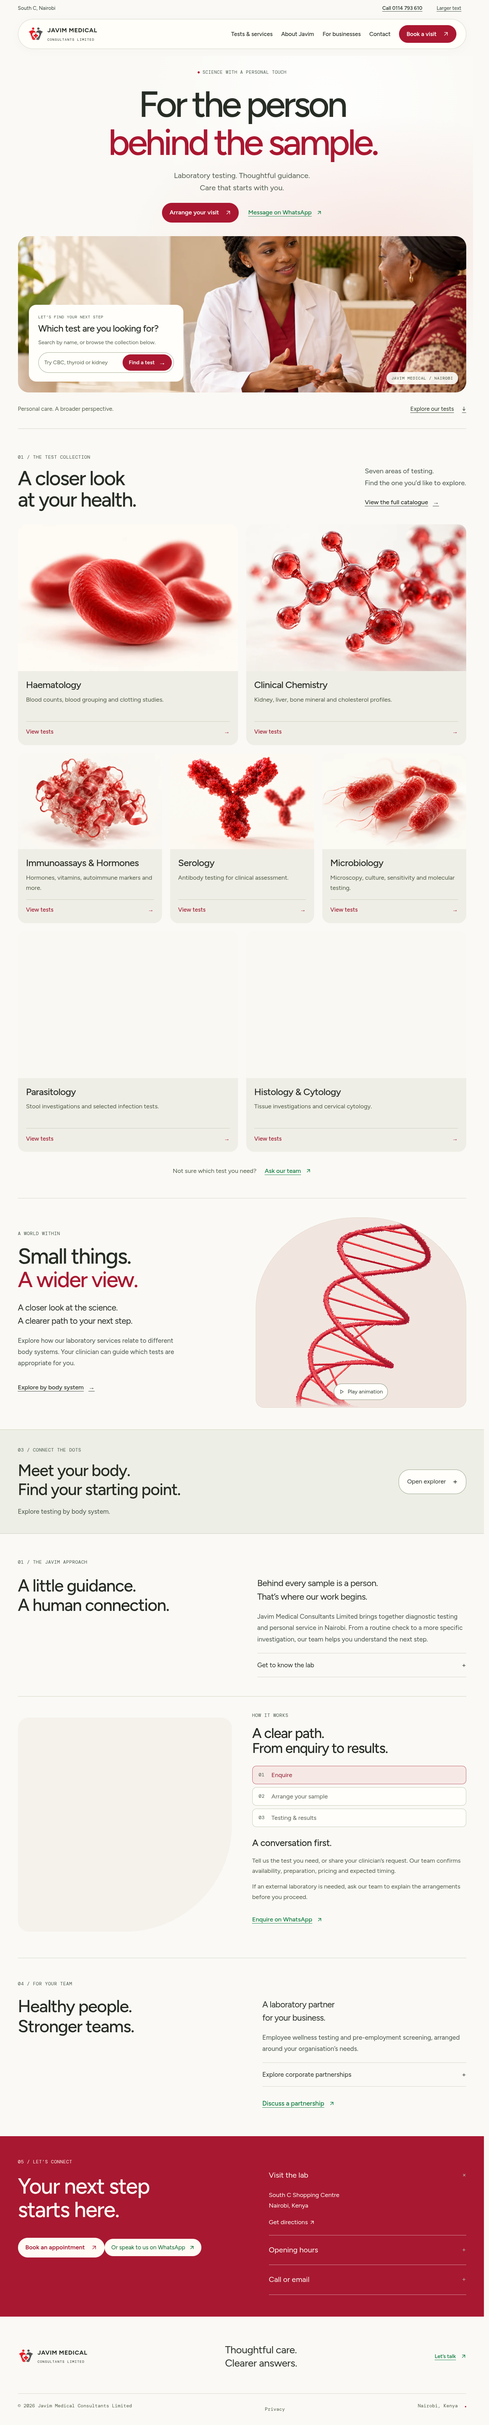
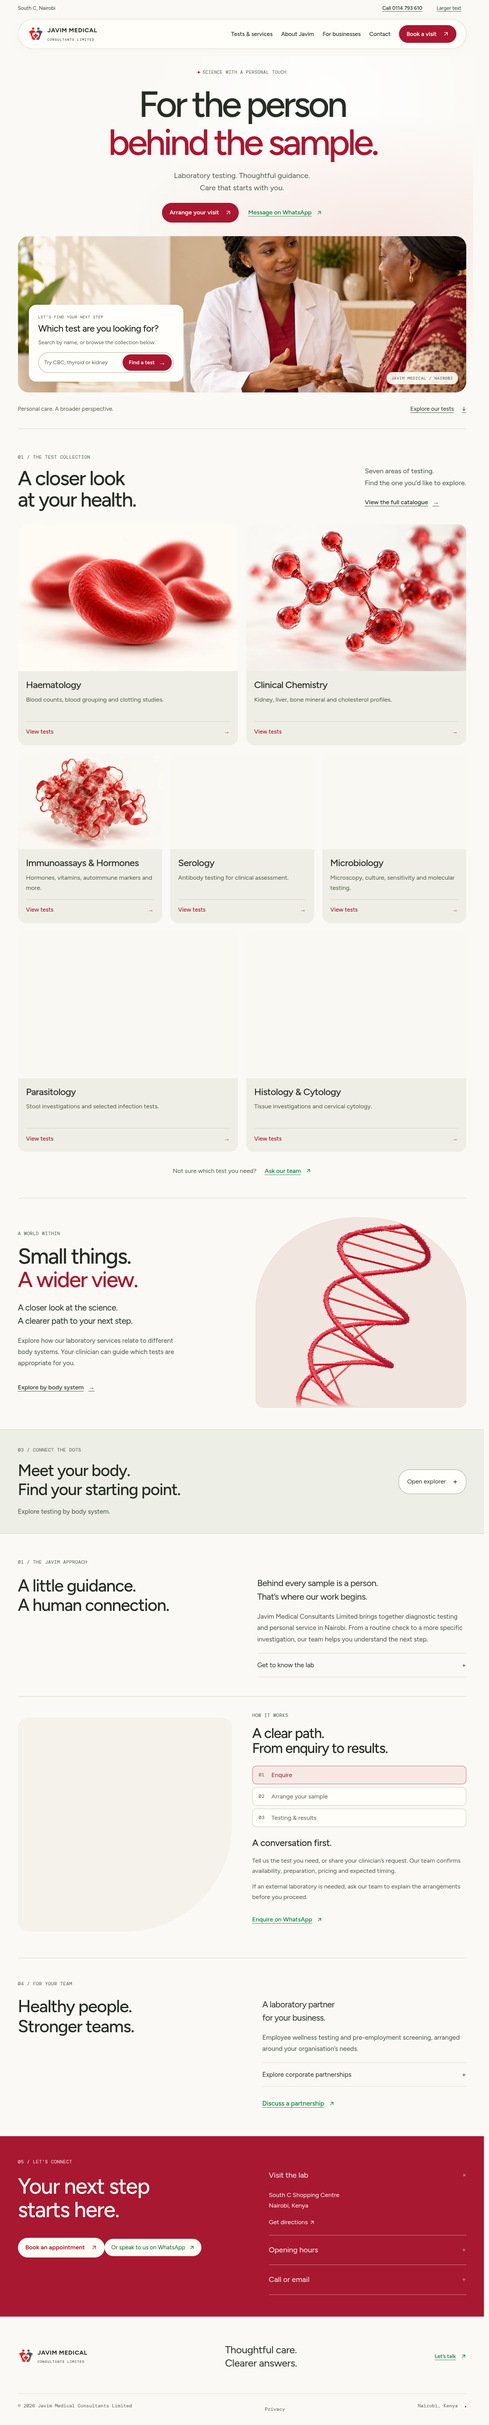
Autoplay scientific scenes in view without visible play buttons

Changed region(s): [[0.375, 0.3125, 0.625, 0.3749], [0.6875, 0.3125, 0.9375, 0.3437], [0.6875, 0.5624, 0.7812, 0.5937]]

diff --git a/src/main.js b/src/main.js
@@ -26,7 +26,7 @@ const header = `<a class="skip-link" href="#main">Skip to content</a>${readabili
 const footer = `<footer class="footer wrap"><div class="footer-top">${brand}<p>Thoughtful care.<br>Clearer answers.</p>${waLink('Let’s talk')}</div><div class="footer-bottom"><span>© ${new Date().getFullYear()} Javim Medical Consultants Limited</span><a href="/privacy">Privacy</a><span>Nairobi, Kenya <span class="red-dot"></span></span></div></footer>`;
 const booking = `<dialog id="booking-dialog" aria-labelledby="booking-title" class="booking-dialog"><div class="dialog-head"><span class="eyebrow">YOUR NEXT STEP</span><button class="close-dialog" aria-label="Close booking">×</button></div><h2 id="booking-title">Make time<br>for your health.</h2><p class="muted">Choose what you need. We’ll take it from here.</p><div class="booking-options">${bookingTypes.map((b,i)=>{const url=safeCalUrl(b.calUrl);return `<a href="${url || whatsapp(b.message)}" target="_blank" rel="noopener noreferrer"><span class="index">0${i+1}</span><div><h3>${b.name}</h3><p>${b.description}</p><span class="alias">${url?'CHOOSE A TIME ON CAL.COM':'<span class="whatsapp-text">ARRANGE VIA WHATSAPP</span>'}</span></div>${arrow}</a>`}).join('')}</div><p class="booking-note">Pricing, preparation and collection arrangements are confirmed by our team. Please avoid sending sensitive medical information in your initial enquiry.</p></dialog>`;
 const hero = `<section class="hero gallery-hero wrap" aria-labelledby="hero-title"><div class="hero-copy"><div class="eyebrow"><span class="red-dot"></span> SCIENCE WITH A PERSONAL TOUCH</div><h1 id="hero-title">For the person<br><em>behind the sample.</em></h1><p>Laboratory testing. Thoughtful guidance.<br>Care that starts with you.</p><div class="gallery-hero-actions"><button class="button" data-book>Arrange your visit ${arrow}</button>${waLink('Message on WhatsApp')}</div></div><div class="hero-photo"><img src="/assets/design-03/consultation.webp" srcset="/assets/design-03/consultation-small.webp 800w, /assets/design-03/consultation.webp 1600w" sizes="(max-width:760px) 100vw, 90vw" width="1536" height="1024" alt="" fetchpriority="high"><form class="home-test-search" action="/services" method="get"><span class="eyebrow">LET’S FIND YOUR NEXT STEP</span><label for="home-test-query">Which test are you looking for?</label><p>Search by name, or browse the collection below.</p><div><input id="home-test-query" name="q" type="search" placeholder="Try CBC, thyroid or kidney" autocomplete="off"><button class="button" type="submit">Find a test <span aria-hidden="true">→</span></button></div></form><span class="photo-location">JAVIM MEDICAL / NAIROBI</span></div><div class="gallery-breadcrumb"><span>Personal care. A broader perspective.</span><a href="#services">Explore our tests <span aria-hidden="true">↓</span></a></div></section>`;
-const scienceStudio = `<section class="science-studio wrap section" aria-labelledby="science-heading"><div class="science-studio-copy"><span class="eyebrow">A WORLD WITHIN</span><h2 id="science-heading">Small things.<br><em>A wider view.</em></h2><p class="large-copy">A closer look at the science.<br>A clearer path to your next step.</p><p class="muted">Explore how our laboratory services relate to different body systems. Your clinician can guide which tests are appropriate for you.</p><a class="text-link" href="#explore">Explore by body system <span aria-hidden="true">→</span></a></div><div class="hero-visual"><div id="medical-scene" aria-busy="true" role="group" aria-label="DNA helix transforming into interactive flowing particles"><div class="scene-fallback" hidden><img src="/assets/dna-poster.webp" alt="" width="640" height="720"></div></div><div class="scene-bottom"><button id="motion-toggle" class="motion-toggle" aria-label="Pause animation" aria-pressed="false"><span aria-hidden="true">Ⅱ</span></button></div></div></section>`;
+const scienceStudio = `<section class="science-studio wrap section" aria-labelledby="science-heading"><div class="science-studio-copy"><span class="eyebrow">A WORLD WITHIN</span><h2 id="science-heading">Small things.<br><em>A wider view.</em></h2><p class="large-copy">A closer look at the science.<br>A clearer path to your next step.</p><p class="muted">Explore how our laboratory services relate to different body systems. Your clinician can guide which tests are appropriate for you.</p><a class="text-link" href="#explore">Explore by body system <span aria-hidden="true">→</span></a></div><div class="hero-visual"><div id="medical-scene" aria-busy="true" role="group" aria-label="DNA helix transforming into interactive flowing particles"><div class="scene-fallback" hidden><img src="/assets/dna-poster.webp" alt="" width="640" height="720"></div></div></div></section>`;
 const about = `<section id="about" class="about-section wrap section"><div class="eyebrow">01 / THE JAVIM APPROACH</div><div class="about-grid"><h2>A little guidance.<br>A human connection.</h2><div><p class="large-copy">Behind every sample is a person.<br>That’s where our work begins.</p><p class="muted">Javim Medical Consultants Limited brings together diagnostic testing and personal service in Nairobi. From a routine check to a more specific investigation, our team helps you understand the next step.</p><details class="quiet-details"><summary>Get to know the lab <span aria-hidden="true">+</span></summary><div><p>Our services span haematology, clinical chemistry, immunoassays and hormones, serology, microbiology, parasitology, and histology and cytology.</p><p>Whether you live locally or are visiting Kenya, speak directly with our team about test availability, sample requirements, pricing and turnaround times.</p></div></details></div></div>${renderProcess()}</section>`;
 const serviceSection = `<section id="services" class="services-section section wrap" aria-labelledby="collection-heading"><div class="collection-heading"><div><span class="eyebrow">01 / THE TEST COLLECTION</span><h2 id="collection-heading">A closer look<br>at your health.</h2></div><div><p class="muted">Seven areas of testing.<br>Find the one you’d like to explore.</p><a class="text-link" href="/services">View the full catalogue <span aria-hidden="true">→</span></a></div></div><div class="service-card-grid">${renderServiceCards()}</div><div class="collection-tail"><span>Not sure which test you need?</span>${waLink('Ask our team')}</div></section>`;
 const anatomySVG = `<svg viewBox="0 0 320 580" role="group" aria-label="Illustrated human body with highlighted organs"><defs><linearGradient id="body-fill" x1="0" y1="0" x2="1" y2="1"><stop stop-color="#f4f4ef"/><stop offset=".5" stop-color="#d7d8d2"/><stop offset="1" stop-color="#f6f6f0"/></linearGradient><radialGradient id="organ"><stop stop-color="#f36860"/><stop offset="1" stop-color="#c42028"/></radialGradient></defs><g fill="url(#body-fill)" stroke="#babdb5" stroke-width="1"><path d="M142 79c-8-8-15-18-14-37 1-20 12-30 32-30s31 10 32 30c1 19-6 29-14 37l-1 18 30 10c15 5 22 18 26 39l16 95 12 60-9 11-12-5-14-64-17-59-5 105 4 56-16 105-8 64-10 45 4 22h-30l-2-20 8-41 4-65 5-94-8-41h-18l-8 41 5 94 4 65 8 41-2 20h-30l4-22-10-45-8-64-16-105 4-56-5-105-17 59-14 64-12 5-9-11 12-60 16-95c4-21 11-34 26-39l30-10Z"/></g><g fill="none" stroke="#adb1a8" stroke-width="1.2" opacity=".45"><path d="M160 101v198M132 121c-20 21-27 56-16 78M188 121c20 21 27 56 16 78M124 153q36 18 72 0M120 165q40 20 80 0M119 179q41 19 82 0M122 193q38 17 76 0M125 208q35 14 70 0M135 298l-14 51M185 298l14 51M119 358l11 102M201 358l-11 102"/></g><g class="anatomy-organ" data-organ="blood" fill="url(#organ)"><path d="M160 145c-8-10-15-7-19 0-9 13-4 33 12 41 13 11 23-1 23-17 1-13-3-22-16-24Z"/><g fill="none" stroke="#d32b31" stroke-width="2.5"><path d="M161 184v104m0-79-29 17-9 77m38-87 29 13 9 74M158 149v-30m0 24-38-16-14 61m56-45 38-16 14 61M161 283l-28 59-1 84m29-143 28 59 1 84"/></g></g><g class="anatomy-organ" data-organ="thyroid" fill="url(#organ)"><path d="M156 111c-17-14-16 14-2 10h12c14 4 15-24-2-10Z"/></g><g class="anatomy-organ" data-organ="liver" fill="url(#organ)"><path d="M126 207c8-14 39-12 59-1-9 6-16 12-23 14-17 5-30 4-36-13Z"/></g><g class="anatomy-organ" data-organ="kidneys" fill="url(#organ)"><path d="M136 231c-15-7-21 21-11 29 7 6 16-3 12-9-9-2 1-14-1-20ZM184 231c15-7 21 21 11 29-7 6-16-3-12-9 9-2-1-14 1-20Z"/></g><g class="anatomy-organ" data-organ="metabolic" fill="none" stroke="#d52a32" stroke-width="4"><path d="M141 273q-15-9-13 5t27 6q24-17 29-3t-22 10q-34-1-20 15t38-3"/></g></svg>`;
@@ -34,7 +34,7 @@ const torsoFallback = anatomySVG.replace('viewBox="0 0 320 580"', 'viewBox="65 8
 const explorer = `<section id="explore" class="explorer-section section"><div class="wrap"><details class="explorer-disclosure"><summary><div><span class="eyebrow">03 / CONNECT THE DOTS</span><h2>Meet your body.<br>Find your starting point.</h2><p class="muted">Explore testing by body system.</p></div><span class="explore-button">Open explorer <span aria-hidden="true">+</span></span></summary><div class="explorer-grid"><div class="anatomy-art"><div id="anatomy-scene" role="group" aria-label="Interactive three-dimensional torso and organs"><div class="anatomy-fallback">${torsoFallback}</div></div><div class="anatomy-hotspots">${systems.map((system,i)=>`<button class="anatomy-hotspot" data-organ="${system.id}" style="left:${[53,50,39,65,52][i]}%;top:${[39,12,58,69,66][i]}%" aria-label="Explore ${system.name} tests" title="${system.name}"><span aria-hidden="true"></span></button>`).join('')}</div><div class="anatomy-tools"><button id="anatomy-reset">Full torso</button><a href="/assets/anatomy/NOTICE.md" target="_blank" rel="noopener noreferrer">Model credits ↗</a></div></div><div class="explorer-content"><div class="system-tabs" role="group" aria-label="Choose a body system">${systems.map((s,i)=>`<button data-system="${s.id}" aria-pressed="${i===0}" class="${i===0?'active':''}">${s.name}</button>`).join('')}</div><div id="system-info" aria-live="polite"></div><p class="explorer-note">A guide to our services, rather than a test recommendation. Your clinician can advise which investigations are appropriate.</p></div></div></details></div></section>`;
 const corporate = `<section id="corporate" class="corporate-section section wrap"><div class="eyebrow">04 / FOR YOUR TEAM</div><div class="corporate-grid"><h2>Healthy people.<br>Stronger teams.</h2><div><p class="large-copy">A laboratory partner<br>for your business.</p><p class="muted">Employee wellness testing and pre-employment screening, arranged around your organisation’s needs.</p><details class="quiet-details"><summary>Explore corporate partnerships <span aria-hidden="true">+</span></summary><div><p>Speak with our team about group size, required tests and scheduling. We’ll discuss a suitable arrangement, including pricing, preparation and ongoing testing needs.</p></div></details>${waLink('Discuss a partnership','Hello Javim Medical, I would like to discuss corporate testing for my organisation.','text-link corporate-link')}</div></div></section>`;
 const contact = `<section id="contact" class="contact-section"><div class="wrap contact-grid"><div><span class="eyebrow">05 / LET’S CONNECT</span><h2>Your next step<br>starts here.</h2><button class="button button-light" data-book>Book an appointment ${arrow}</button>${waLink('Or speak to us on WhatsApp',undefined,'contact-wa')}</div><div class="contact-info"><details open><summary>Visit the lab <span aria-hidden="true">+</span></summary><div><p>South C Shopping Centre<br>Nairobi, Kenya</p><a href="https://www.google.com/maps/search/?api=1&query=South+C+Shopping+Centre+Nairobi" target="_blank" rel="noopener noreferrer">Get directions ↗</a></div></details><details><summary>Opening hours <span aria-hidden="true">+</span></summary><div><p>Monday – Friday <span>9:00 AM – 6:00 PM</span><br>Saturday <span>9:00 AM – 4:00 PM</span></p><p class="contact-note">East Africa Time (UTC+3).<br>Closed Sundays & public holidays.</p></div></details><details><summary>Call or email <span aria-hidden="true">+</span></summary><div><a href="tel:+254114793610">0114 793 610</a><a href="mailto:javimops@outlook.com">javimops@outlook.com</a></div></details></div></div></section>`;
-const servicesPage = `<section class="catalogue-page wrap"><div class="catalogue-hero"><div class="catalogue-intro"><div class="eyebrow"><span class="red-dot"></span> OUR SERVICES</div><h1>A little clarity.<br><em>Start with a test.</em></h1><p class="large-copy">Explore our laboratory tests.<br>Ask our team about preparation, pricing and timing.</p></div><div class="blood-visual"><div id="blood-scene" role="group" aria-label="Illustrative red blood cells floating in three dimensions"><img class="blood-fallback" src="/assets/services/haematology.webp" alt="" width="840" height="560"></div><button id="blood-motion-toggle" class="motion-toggle" aria-label="Pause blood cell animation" aria-pressed="false"></button></div></div><div class="search-bar"><label for="test-search">Search tests</label><div><span aria-hidden="true">⌕</span><input id="test-search" type="search" placeholder="Try HbA1c, thyroid or kidney…" autocomplete="off"><button id="clear-search" aria-label="Clear search" hidden>×</button></div></div><div class="filter-list" role="group" aria-label="Filter by department"><button data-filter="all" class="active" aria-pressed="true">All tests</button>${departments.map(d=>`<button data-filter="${d.id}" aria-pressed="false">${d.name}</button>`).join('')}</div><p id="results-count" class="eyebrow" role="status" aria-live="polite">${allTests.length} TESTS / 7 SERVICE GROUPS</p><div id="catalogue-results">${departmentRows(true)}</div><div class="catalogue-help"><h2>Not sure where to start?</h2><p class="muted">Share the test name or your clinician’s request. Our team can confirm availability, pricing and preparation.</p>${waLink('Ask the team')}</div></section>`;
+const servicesPage = `<section class="catalogue-page wrap"><div class="catalogue-hero"><div class="catalogue-intro"><div class="eyebrow"><span class="red-dot"></span> OUR SERVICES</div><h1>A little clarity.<br><em>Start with a test.</em></h1><p class="large-copy">Explore our laboratory tests.<br>Ask our team about preparation, pricing and timing.</p></div><div class="blood-visual"><div id="blood-scene" role="group" aria-label="Illustrative red blood cells floating in three dimensions"><img class="blood-fallback" src="/assets/services/haematology.webp" alt="" width="840" height="560"></div></div></div><div class="search-bar"><label for="test-search">Search tests</label><div><span aria-hidden="true">⌕</span><input id="test-search" type="search" placeholder="Try HbA1c, thyroid or kidney…" autocomplete="off"><button id="clear-search" aria-label="Clear search" hidden>×</button></div></div><div class="filter-list" role="group" aria-label="Filter by department"><button data-filter="all" class="active" aria-pressed="true">All tests</button>${departments.map(d=>`<button data-filter="${d.id}" aria-pressed="false">${d.name}</button>`).join('')}</div><p id="results-count" class="eyebrow" role="status" aria-live="polite">${allTests.length} TESTS / 7 SERVICE GROUPS</p><div id="catalogue-results">${departmentRows(true)}</div><div class="catalogue-help"><h2>Not sure where to start?</h2><p class="muted">Share the test name or your clinician’s request. Our team can confirm availability, pricing and preparation.</p>${waLink('Ask the team')}</div></section>`;
 const privacy = `<article class="privacy-page wrap"><span class="eyebrow">YOUR PRIVACY</span><h1>Care includes<br><em>your privacy.</em></h1><p>This website provides information about Javim Medical Consultants Limited and links to our team and appointment services.</p><h2>Website use</h2><p>We do not provide a medical-record upload form or use analytics or advertising trackers on this website. Our hosting provider may process technical request information such as IP addresses for delivery and security.</p><h2>Contact and booking</h2><p><span class="whatsapp-text">WhatsApp</span>, Cal.com (when enabled) and Google Maps are external services with their own privacy policies. They receive information when you follow a link to use them. Please avoid sharing sensitive health details in an initial booking enquiry.</p><h2>Medical information</h2><p>Ask our team how patient information, specimens and laboratory results are handled before submitting medical information. This website notice does not replace the laboratory’s patient-data policy.</p><h2>Questions</h2><p>Contact <a href="mailto:javimops@outlook.com">javimops@outlook.com</a> for privacy enquiries.</p></article>`;
 document.querySelector('#app').innerHTML = (header + `<main id="main">${isServices?servicesPage:isPrivacy?privacy:hero+serviceSection+scienceStudio+explorer+about+corporate+contact}</main>` + footer + booking + (!isServices&&!isPrivacy?renderServiceDrawer():'')).replaceAll('↗', arrowIcon);
 initReadability();
@@ -54,7 +54,7 @@ if (!isServices && !isPrivacy) {
     document.querySelector('#medical-scene').setAttribute('aria-busy','false');
     document.querySelector('#medical-scene').dataset.phase='fallback';
     document.querySelector('#medical-scene canvas')?.setAttribute('hidden', '');
-    document.querySelector('#motion-toggle').hidden = true;
+    document.querySelector('#medical-scene').dataset.phase='fallback';
   });
   let anatomyViewer = null, anatomyLoading = null, selectedSystem = 'blood';
   const setSystem = id => {
@@ -81,7 +81,7 @@ if (!isServices && !isPrivacy) {
 }
 if (isServices) {
   initGuidance();
-  import('./blood-cells.js').then(({mountBloodCells})=>mountBloodCells(document.querySelector('#blood-scene'))).catch(()=>{document.querySelector('#blood-motion-toggle').hidden=true;});
+  import('./blood-cells.js').then(({mountBloodCells})=>mountBloodCells(document.querySelector('#blood-scene'))).catch(()=>{document.querySelector('#blood-scene').dataset.status='fallback';});
   let filter='all';const search=document.querySelector('#test-search');
   const render=()=>{
     const q=search.value.trim();let count=0,opened=false;

diff --git a/src/blood-cells.js b/src/blood-cells.js
@@ -59,7 +59,7 @@ function surfaceGrains(count, seed, pointScale){
 export function mountBloodCells(container){
  const toggle=document.querySelector('#blood-motion-toggle'),fallback=container.querySelector('.blood-fallback');
  let renderer;
- try{renderer=new THREE.WebGLRenderer({alpha:true,antialias:true,powerPreference:'low-power'});}catch{container.dataset.status='fallback';toggle.hidden=true;return;}
+ try{renderer=new THREE.WebGLRenderer({alpha:true,antialias:true,powerPreference:'low-power'});}catch{container.dataset.status='fallback';if(toggle)toggle.hidden=true;return;}
  const compact=matchMedia('(max-width:760px)').matches;
  renderer.setPixelRatio(Math.min(devicePixelRatio,compact?1.25:1.5));renderer.setClearColor(0xffffff,0);renderer.toneMapping=THREE.ACESFilmicToneMapping;renderer.toneMappingExposure=.85;
  renderer.domElement.setAttribute('aria-hidden','true');container.append(renderer.domElement);
@@ -77,9 +77,9 @@ export function mountBloodCells(container){
   const grains=surfaceGrains(grainCount,193+index*719,1);mesh.add(grains);totalGrains+=grainCount;
   return {mesh,grains,x,y,z,rx,ry,index};
  });
- const media=matchMedia('(prefers-reduced-motion:reduce)');let paused=true,visible=true,elapsed=0,previous=0,frame=0,dirty=true;
+ const media=matchMedia('(prefers-reduced-motion:reduce)');let paused=media.matches,visible=true,elapsed=0,previous=0,frame=0,dirty=true;
  const pointer=new THREE.Vector2(),target=new THREE.Vector2();
- function updateButton(){toggle.setAttribute('aria-label',paused?'Play blood cell animation':'Pause blood cell animation');toggle.setAttribute('aria-pressed',String(paused));toggle.innerHTML=paused?'<svg viewBox="0 0 16 16" aria-hidden="true"><path d="m6 3 7 5-7 5Z" fill="currentColor"/></svg><span>Play animation</span>':'<svg viewBox="0 0 16 16" aria-hidden="true"><path d="M5 3v10M11 3v10" stroke="currentColor" stroke-width="2"/></svg><span>Pause animation</span>';container.dataset.paused=String(paused);}
+ function updateButton(){container.dataset.paused=String(paused);container.tabIndex=0;container.setAttribute('aria-keyshortcuts','Space');container.setAttribute('aria-label',`Floating red blood cells. ${paused?'Paused':'Playing'}. Press Space to ${paused?'play':'pause'} animation.`);}
  function resize(){const {width,height}=container.getBoundingClientRect();if(!width||!height)return;renderer.setSize(width,height);for(const c of cells)c.grains.material.uniforms.pointScale.value=height*renderer.getPixelRatio()/(2*Math.tan(THREE.MathUtils.degToRad(34/2)));camera.aspect=width/height;camera.updateProjectionMatrix();dirty=true;start();}
  function draw(now){
   frame=0;const dt=previous?Math.min((now-previous)/1000,.05):0;previous=now;
@@ -92,12 +92,12 @@ export function mountBloodCells(container){
   if(!paused&&visible&&!document.hidden)frame=requestAnimationFrame(draw);
  }
  function start(){if(!frame&&visible&&!document.hidden){previous=0;frame=requestAnimationFrame(draw);}}
- toggle.addEventListener('click',()=>{paused=!paused;updateButton();dirty=true;start();});
- media.addEventListener('change',()=>{if(media.matches)paused=true;updateButton();dirty=true;start();});
+ container.addEventListener('keydown',event=>{if(event.code==='Space'){event.preventDefault();paused=!paused;updateButton();dirty=true;start();}});
+ media.addEventListener('change',()=>{paused=media.matches;updateButton();dirty=true;start();});
  container.addEventListener('pointermove',e=>{if(e.pointerType==='touch'||paused)return;const r=container.getBoundingClientRect();target.set((e.clientX-r.left)/r.width*2-1,(e.clientY-r.top)/r.height*2-1);});container.addEventListener('pointerleave',()=>target.set(0,0));
  const observer=new IntersectionObserver(([entry])=>{visible=entry.isIntersecting;if(visible)start();else{cancelAnimationFrame(frame);frame=0;previous=0;}},{threshold:0});observer.observe(container);
  document.addEventListener('visibilitychange',()=>{if(document.hidden){cancelAnimationFrame(frame);frame=0;}else start();});
  const resizeObserver=new ResizeObserver(resize);resizeObserver.observe(container);
- renderer.domElement.addEventListener('webglcontextlost',event=>{event.preventDefault();cancelAnimationFrame(frame);frame=0;visible=false;renderer.domElement.hidden=true;fallback.hidden=false;toggle.hidden=true;container.dataset.status='fallback';});
+ renderer.domElement.addEventListener('webglcontextlost',event=>{event.preventDefault();cancelAnimationFrame(frame);frame=0;visible=false;renderer.domElement.hidden=true;fallback.hidden=false;if(toggle)toggle.hidden=true;container.dataset.status='fallback';});
  updateButton();resize();renderer.render(scene,camera);fallback.hidden=true;container.dataset.status='ready';container.dataset.cellCount=String(cells.length);container.dataset.grainCount=String(totalGrains);start();
 }

diff --git a/src/scene.js b/src/scene.js
@@ -7,7 +7,7 @@ export function mountScene(container) {
   const fallback = () => {
     container.querySelector('.scene-fallback').hidden = false;
     container.querySelector('canvas')?.setAttribute('hidden', '');
-    button.hidden = true;
+    if(button)button.hidden = true;
     container.dataset.phase = 'fallback';
     container.setAttribute('aria-busy','false');
   };
@@ -140,7 +140,7 @@ export function mountScene(container) {
   const particles = new THREE.Points(geometry, particleMaterial);
   particles.frustumCulled = false; dna.add(particles);
   const media = matchMedia('(prefers-reduced-motion: reduce)');
-  let paused = true, visible = true, elapsed = 0, last = performance.now(), lastRender = 0, dirty = true, frame;
+  let paused = media.matches, visible = true, elapsed = 0, last = performance.now(), lastRender = 0, dirty = true, frame;
   const desiredPointer = new THREE.Vector3(), ndc = new THREE.Vector2(), raycaster = new THREE.Raycaster();
   const plane = new THREE.Plane(new THREE.Vector3(0,0,1), 0), intersection = new THREE.Vector3();
   let desiredInfluence = 0, pressed = false;
@@ -159,15 +159,14 @@ export function mountScene(container) {
   renderer.domElement.addEventListener('pointerdown', event => { pressed = true; pointer(event); });
   for (const name of ['pointerup','pointercancel','pointerleave']) renderer.domElement.addEventListener(name, () => { pressed = false; desiredInfluence = 0; });
   const sync = () => {
-    button.setAttribute('aria-label', paused ? 'Play animation' : 'Pause animation');
-    button.setAttribute('aria-pressed', String(paused));
-    button.innerHTML = paused
-      ? '<svg viewBox="0 0 16 16" aria-hidden="true"><path d="m5 3 8 5-8 5Z" fill="none" stroke="currentColor" stroke-width="1.2"/></svg><span>Play animation</span>'
-      : '<svg viewBox="0 0 16 16" aria-hidden="true"><path d="M5 3v10M11 3v10" stroke="currentColor" stroke-width="1.8"/></svg><span>Pause animation</span>';
+    container.dataset.paused=String(paused);
+    container.tabIndex=0;
+    container.setAttribute('aria-keyshortcuts','Space');
+    container.setAttribute('aria-label',`DNA transforming into flowing particles. ${paused?'Paused':'Playing'}. Press Space to ${paused?'play':'pause'} animation.`);
   };
   sync();
-  button.addEventListener('click', () => { paused = !paused; dirty = true; desiredInfluence = 0; sync(); });
-  media.addEventListener('change', () => { if(media.matches)paused = true; elapsed = 0; desiredInfluence = 0; dirty = true; sync(); });
+  container.addEventListener('keydown',event=>{if(event.code==='Space'){event.preventDefault();paused=!paused;dirty=true;desiredInfluence=0;sync();}});
+  media.addEventListener('change', () => { paused = media.matches; elapsed = 0; desiredInfluence = 0; dirty = true; sync(); });
   const resize = () => {
     const {width, height} = container.getBoundingClientRect(); if (!width || !height) return;
     dna.scale.setScalar(width < 450 ? 1.55 : 1.85);
@@ -187,6 +186,7 @@ export function mountScene(container) {
     dna.rotation.y = -.45 + Math.sin(elapsed * .09) * .12;
     key.position.x = -5 + Math.sin(elapsed * .12) * .8;
     rim.intensity = 2.2 + Math.sin(elapsed * .15) * .12;
+    container.dataset.time = elapsed.toFixed(3);
     container.dataset.phase = motionPhase(elapsed);
     container.dataset.fluid = amount.toFixed(3);
     container.dataset.particleCount = String(count);

diff --git a/tests/browser/site.spec.js b/tests/browser/site.spec.js
@@ -9,11 +9,11 @@ test('desktop scene, booking modal, anatomy and catalogue work',async({page})=>{
     const gl = canvas.getContext('webgl2');
     return gl.getContextAttributes().alpha && gl.getParameter(gl.COLOR_CLEAR_VALUE)[3] === 0;
   })).toBe(true);
-  await expect(page.locator('#motion-toggle')).toHaveAttribute('aria-label','Play animation');
-  await page.locator('#motion-toggle').click();
-  await expect(page.locator('#motion-toggle')).toHaveAttribute('aria-label','Pause animation');
+  await expect(page.locator('#medical-scene')).toHaveAttribute('data-paused','true');
+  await page.locator('#medical-scene').focus();await page.keyboard.press('Space');
+  await expect(page.locator('#medical-scene')).toHaveAttribute('data-paused','false');
   await page.keyboard.press('Space');
-  await expect(page.locator('#motion-toggle')).toHaveAttribute('aria-label','Play animation');
+  await expect(page.locator('#medical-scene')).toHaveAttribute('data-paused','true');
   await page.getByRole('button',{name:'Book a visit'}).click();
   await expect(page.locator('#booking-dialog')).toBeVisible();
   await expect(page.locator('.booking-options a')).toHaveCount(3);
@@ -39,7 +39,7 @@ test('desktop scene, booking modal, anatomy and catalogue work',async({page})=>{
 test('mobile navigation, responsive bounds and reduced motion',async({page})=>{
   await page.setViewportSize({width:390,height:844});await page.emulateMedia({reducedMotion:'reduce'});
   await page.goto('/');await expect(page.locator('#medical-scene canvas')).toBeVisible({timeout:20000});
-  await expect(page.locator('#motion-toggle')).toHaveAttribute('aria-label','Play animation');
+  await expect(page.locator('#medical-scene')).toHaveAttribute('data-paused','true');
   await expect(page.locator('#medical-scene')).toHaveAttribute('data-particle-count','14000');
   await page.getByRole('button',{name:'Open navigation'}).click();
   await expect(page.locator('#navigation')).toBeVisible();
@@ -63,7 +63,7 @@ test('without WebGL, a static illustration and all booking controls remain usabl
     HTMLCanvasElement.prototype.getContext=function(type,...args){return /webgl/.test(type)?null:original.call(this,type,...args);};
   });
   await page.goto('/');
-  await expect(page.locator('#motion-toggle')).toBeHidden({timeout:20000});
+  await expect(page.locator('#medical-scene')).toHaveAttribute('data-phase','fallback',{timeout:20000});
   await expect(page.locator('.scene-fallback')).toBeVisible();
   await page.getByRole('button',{name:'Book a visit'}).click();
   await expect(page.locator('#booking-dialog')).toBeVisible();

diff --git a/tests/browser/fluid.spec.js b/tests/browser/fluid.spec.js
@@ -6,7 +6,7 @@ test('automatic DNA cycle flows, responds to a pointer, pauses and reforms',asyn
   await expect(scene).toHaveAttribute('data-phase','intact');
   await expect(scene).toHaveAttribute('data-particle-count','32000');
   await page.clock.pauseAt(new Date(Date.now() + 1000));
-  await page.locator('#motion-toggle').focus();
+  await page.locator('#medical-scene').focus();
   await page.keyboard.press('Space');
   await page.clock.fastForward(6500);await expect(scene).toHaveAttribute('data-phase','dissolving');
   await page.clock.fastForward(4000);await expect(scene).toHaveAttribute('data-phase','fluid');
@@ -15,10 +15,10 @@ test('automatic DNA cycle flows, responds to a pointer, pauses and reforms',asyn
   await page.mouse.move(box.x+box.width*.5,box.y+box.height*.5);
   await page.clock.fastForward(800);await expect(scene).toHaveAttribute('data-interaction','active');
   expect(Buffer.compare(initial,await page.screenshot({clip:box}))).not.toBe(0);
-  await page.locator('#motion-toggle').focus();await page.keyboard.press('Space');
+  await page.locator('#medical-scene').focus();await page.keyboard.press('Space');
   const frozen=await scene.getAttribute('data-fluid');await page.clock.fastForward(3000);
   await expect(scene).toHaveAttribute('data-fluid',frozen);
-  await page.locator('#motion-toggle').focus();await page.keyboard.press('Space');await page.clock.fastForward(7000);
+  await page.locator('#medical-scene').focus();await page.keyboard.press('Space');await page.clock.fastForward(7000);
   await expect(scene).toHaveAttribute('data-phase','reforming');
   await page.clock.fastForward(5000);await expect(scene).toHaveAttribute('data-phase','intact');
   expect(errors).toEqual([]);

diff --git a/tests/browser/blood-cells.spec.js b/tests/browser/blood-cells.spec.js
@@ -2,10 +2,10 @@ import {test,expect} from '@playwright/test';
 test('transparent blood cell scene pauses, resumes and leaves the catalogue usable',async({page})=>{
  const errors=[];page.on('pageerror',e=>errors.push(e.message));await page.emulateMedia({reducedMotion:'reduce'});await page.goto('/services');
  const scene=page.locator('#blood-scene');await expect(scene).toHaveAttribute('data-status','ready',{timeout:30000});await expect(scene).toHaveAttribute('data-cell-count','8');await expect(scene).toHaveAttribute('data-grain-count','69000');
- const toggle=page.getByRole('button',{name:'Play blood cell animation'});await expect(toggle).toBeVisible();
+ await expect(scene).toHaveAttribute('data-paused','true');
  expect(await scene.locator('canvas').evaluate(c=>{const gl=c.getContext('webgl2');return gl.getContextAttributes().alpha&&gl.getParameter(gl.COLOR_CLEAR_VALUE)[3]===0;})).toBe(true);
  const time=await scene.getAttribute('data-time');await page.waitForTimeout(200);await expect(scene).toHaveAttribute('data-time',time);
- await toggle.click();await expect.poll(async()=>Number(await scene.getAttribute('data-time'))).toBeGreaterThan(.05);await page.getByRole('button',{name:'Pause blood cell animation'}).click();
+ await scene.focus();await page.keyboard.press('Space');await expect.poll(async()=>Number(await scene.getAttribute('data-time'))).toBeGreaterThan(.05);await page.keyboard.press('Space');
  await page.locator('#test-search').fill('cbc');await expect(page.locator('.test-row h3')).toHaveText('Full Hemogram');expect(errors).toEqual([]);
 });
 test('mobile cells keep search and heading available and use fewer meshes',async({page})=>{

diff --git a/tests/browser/scene-autoplay.spec.js b/tests/browser/scene-autoplay.spec.js
@@ -1,0 +1,12 @@
+import {test,expect} from '@playwright/test';
+test('scenes autoplay in view, stop outside it and respect reduced motion',async({page})=>{
+ await page.emulateMedia({reducedMotion:'no-preference'});
+ for(const [path,id] of [['/','#medical-scene'],['/services','#blood-scene']]){
+  await page.goto(path);const scene=page.locator(id);await scene.scrollIntoViewIfNeeded();await expect(scene).toHaveAttribute('data-paused','false');await expect.poll(async()=>Number(await scene.getAttribute('data-time'))).toBeGreaterThan(.05);
+  await expect(page.locator('#motion-toggle,#blood-motion-toggle')).toHaveCount(0);
+  await page.locator('.footer').scrollIntoViewIfNeeded();await page.waitForTimeout(250);const stopped=await scene.getAttribute('data-time');await page.waitForTimeout(250);await expect(scene).toHaveAttribute('data-time',stopped);
+  await scene.scrollIntoViewIfNeeded();await expect.poll(async()=>Number(await scene.getAttribute('data-time'))).toBeGreaterThan(Number(stopped));
+  await page.emulateMedia({reducedMotion:'reduce'});await expect(scene).toHaveAttribute('data-paused','true');await scene.focus();await page.keyboard.press('Space');await expect(scene).toHaveAttribute('data-paused','false');await page.keyboard.press('Space');await expect(scene).toHaveAttribute('data-paused','true');
+  await page.emulateMedia({reducedMotion:'no-preference'});
+ }
+});

diff --git a/docs/design-03.md b/docs/design-03.md
@@ -14,7 +14,7 @@ The retained DNA animation has its own “A world within” section, rather than
 - Seven visual category cards open the matching service detail panel.
 - Appointment actions open the existing visit, drop-off and collection choices.
 - Visible phone and WhatsApp actions provide direct contact.
-- Larger-text preference, keyboard navigation, visible focus, reduced-motion support and opt-in scientific animations are retained.
+- Larger-text preference, keyboard navigation, visible focus, reduced-motion support and in-view scientific animations are retained.
 - Images retain their full 3:2 composition in the gallery. On mobile, the overlaid search card moves below the hero photograph so text stays legible.
 
 ## Screenshots
@@ -34,3 +34,5 @@ The retained DNA animation has its own “A world within” section, rather than
 The new consultation image is AI-generated and illustrative, not a photograph of Javim staff, patients or premises. Existing scientific images remain conceptual illustrations. Confirmed contact details and the 42-test catalogue are retained, without adding accreditation or exclusive in-house-testing claims. Test preparation remains general education; operational details are confirmed with the team.
 
 The production build passed. Automated WCAG A/AA scans passed on the homepage, catalogue with expanded test guidance, privacy and open service panel. Larger-text layouts were checked at 720, 390 and 320 pixel widths. Homepage search, booking actions, category panels, mobile navigation and scientific-scene fallbacks were checked with browser tests. Automated checks do not replace review with older visitors or establish complete accessibility compliance.
+
+Animations start automatically when their scene enters view and stop off-screen or when the browser tab is hidden. Play buttons are removed. Reduced-motion preferences keep the scene still; keyboard users can focus a scene and press Space to pause or resume.
